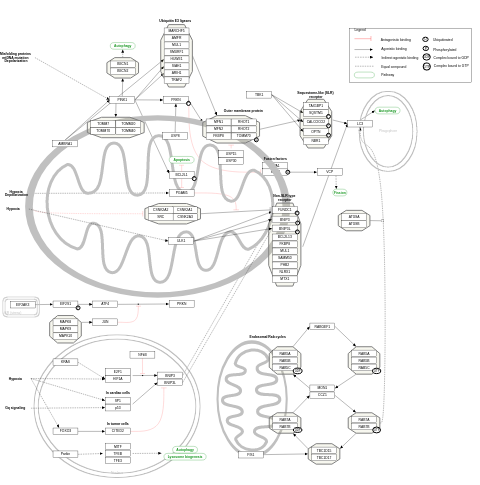
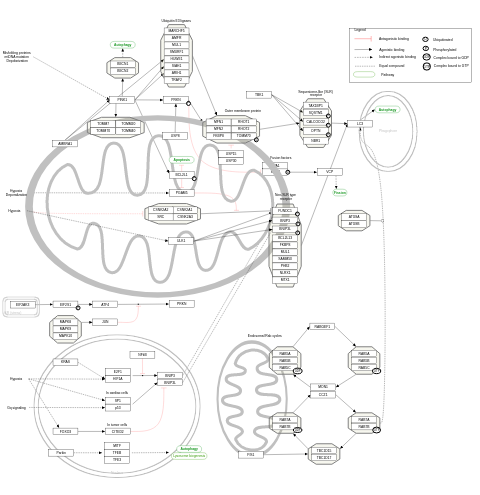
Update tsv, md and png files

diff --git a/_pathways/WP5636.md b/_pathways/WP5636.md
@@ -24,15 +24,15 @@ description: 'KEGG pathway map04137 was used as a reference pathway. Mitochondri
   active (GTP-bound) and inactive (GDP-bound) states to control maturation of the
   vesicle and fusion along microtubules. Therefore, ensuring efficient transport of
   the autophagosome to the lysosome and clearance of damaged mitochondria.'
-last-edited: 2026-05-24
+last-edited: 2026-05-25
 ndex: null
 organisms:
 - Homo sapiens
 redirect_from:
 - /index.php/Pathway:WP5636
 - /instance/WP5636
-- /instance/WP5636_20260507000000
-revision: '20260507000000'
+- /instance/WP5636_20260520113005
+revision: '20260520113005'
 schema-jsonld:
 - '@context': https://schema.org/
   '@id': https://wikipathways.github.io/pathways/WP5636.html